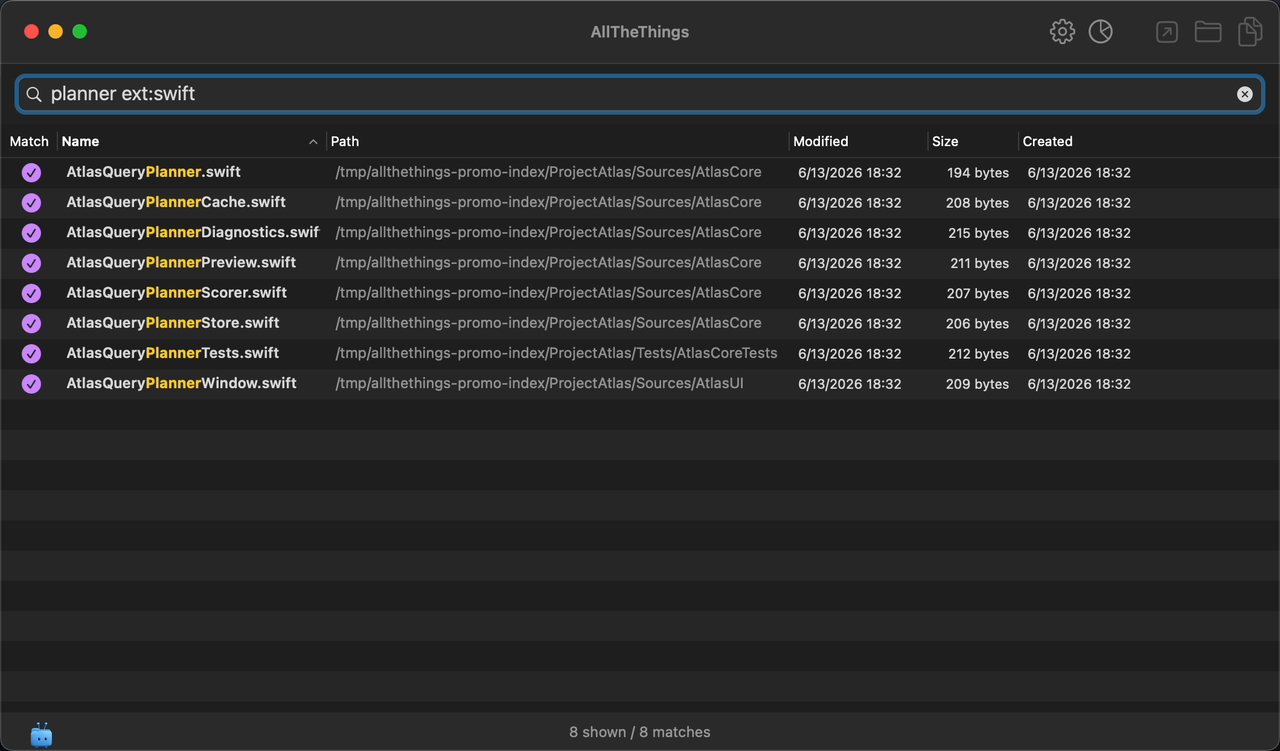
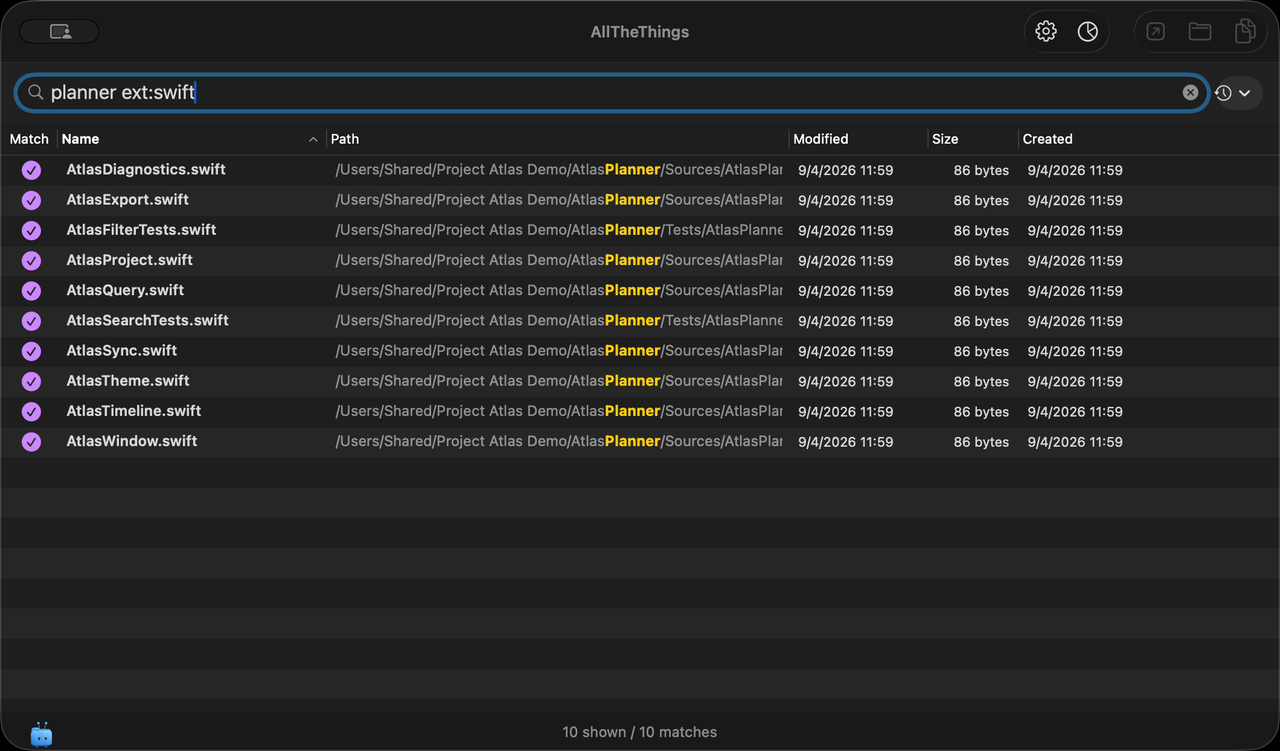
Update promo capture assets

diff --git a/.codex/skills/update-promo-assets/SKILL.md b/.codex/skills/update-promo-assets/SKILL.md
@@ -12,7 +12,7 @@ Use this workflow to regenerate AllTheThings promo media from a real app screen 
 - Do not index or capture real user folders, file names, account names, home paths, recent files, browser tabs, notifications, or other personal data.
 - Do not hardcode personal absolute paths or local usernames in instructions, scripts, generated metadata, or committed files.
 - Use repo-relative paths for AllTheThings files. Use `GAMECORETECH_SITE_ROOT` for the website checkout when available; otherwise locate or ask for the `gamecoretech.com` checkout without recording a personal folder structure in the skill or generated assets.
-- Use a temporary synthetic index root with product-like sample names, such as a Project Atlas fixture. Temporary paths like `/tmp/...` are acceptable in demo assets.
+- Use the clean, stable synthetic index root `/Users/Shared/Project Atlas Demo` with product-like sample names, such as a Project Atlas fixture. Do not point `ATTIndexedRoots` at a randomized staging path: the indexed root is visible in the recording. Create this exact folder only from known synthetic fixtures, and move it out of `/Users/Shared` after capture if it did not already exist.
 - Before recording, take a preflight screenshot and visually confirm that the capture region contains only the AllTheThings window and safe synthetic paths.
 - Restore the user's AllTheThings preferences and application support data after capture, even if asset generation fails.
 
@@ -35,7 +35,7 @@ Use this workflow to regenerate AllTheThings promo media from a real app screen 
 
    The app title in the capture should match the current release.
 
-3. Prepare a safe demo index in a temporary location. Include enough files for the query `atlas ext:swift` to produce multiple Swift results and visible Match indicators. Keep all names synthetic and non-personal. Include a release-note fixture matching the current release version so pre-query rows are not stale.
+3. Prepare the safe demo index at `/Users/Shared/Project Atlas Demo`. Before creating it, verify that the path is absent or contains only the known synthetic fixture; never merge unknown files into the capture root. Include enough files for the query `planner ext:swift` to produce multiple Swift results and visible Match indicators, including matches where `planner` appears inside a path rather than only at the beginning of a filename. Keep all names synthetic and non-personal. Include a release-note fixture matching the current release version so pre-query rows are not stale. After the movie is recorded, move the synthetic root into the capture work directory (or another recoverable staging location) rather than deleting it.
 
 4. Back up local app state before changing defaults:
 
@@ -50,8 +50,7 @@ Use this workflow to regenerate AllTheThings promo media from a real app screen 
    fi
    if [[ -d "$HOME/Library/Application Support/AllTheThings" ]]; then
      printf '1' > "$backup_root/had-app-support"
-     mkdir -p "$backup_root/Application Support"
-     ditto "$HOME/Library/Application Support/AllTheThings" "$backup_root/Application Support/AllTheThings"
+     mv "$HOME/Library/Application Support/AllTheThings" "$backup_root/original-support-live"
    else
      printf '0' > "$backup_root/had-app-support"
    fi
@@ -86,12 +85,12 @@ Use this workflow to regenerate AllTheThings promo media from a real app screen 
    screencapture -x -v -V 6.2 -R90,80,1060,622 "$work_dir/allthethings-demo.mov" &
    ```
 
-   During recording, clear the search field and type `atlas`, pause briefly, then type ` ext:swift` at a slower human cadence. The final frame should show:
+   Before starting the recorder, focus the search field, clear it, and hold the empty field on screen long enough for the opening frame to capture the placeholder. During recording, type `planner`, pause briefly, then type ` ext:swift` at a slower human cadence. The final frame should show:
 
    - title for the current AllTheThings release
-   - query `atlas ext:swift`
+   - query `planner ext:swift`
    - Match column visible with indicators
-   - only synthetic temporary paths
+   - only the clean `/Users/Shared/Project Atlas Demo` synthetic paths
    - 8 or more clean demo matches when possible
    - status text showing the safe index count
 
@@ -115,10 +114,13 @@ Use this workflow to regenerate AllTheThings promo media from a real app screen 
     else
       defaults delete com.gamecoretech.allthethings >/dev/null 2>&1 || true
     fi
-    rm -rf "$HOME/Library/Application Support/AllTheThings"
+    support_dir="$HOME/Library/Application Support/AllTheThings"
+    if [[ -d "$support_dir" ]]; then
+      mv "$support_dir" "$backup_root/capture-support-final"
+    fi
     if [[ "$(cat "$backup_root/had-app-support")" == "1" ]]; then
       mkdir -p "$HOME/Library/Application Support"
-      ditto "$backup_root/Application Support/AllTheThings" "$HOME/Library/Application Support/AllTheThings"
+      mv "$backup_root/original-support-live" "$support_dir"
     fi
     killall cfprefsd >/dev/null 2>&1 || true
     ```
